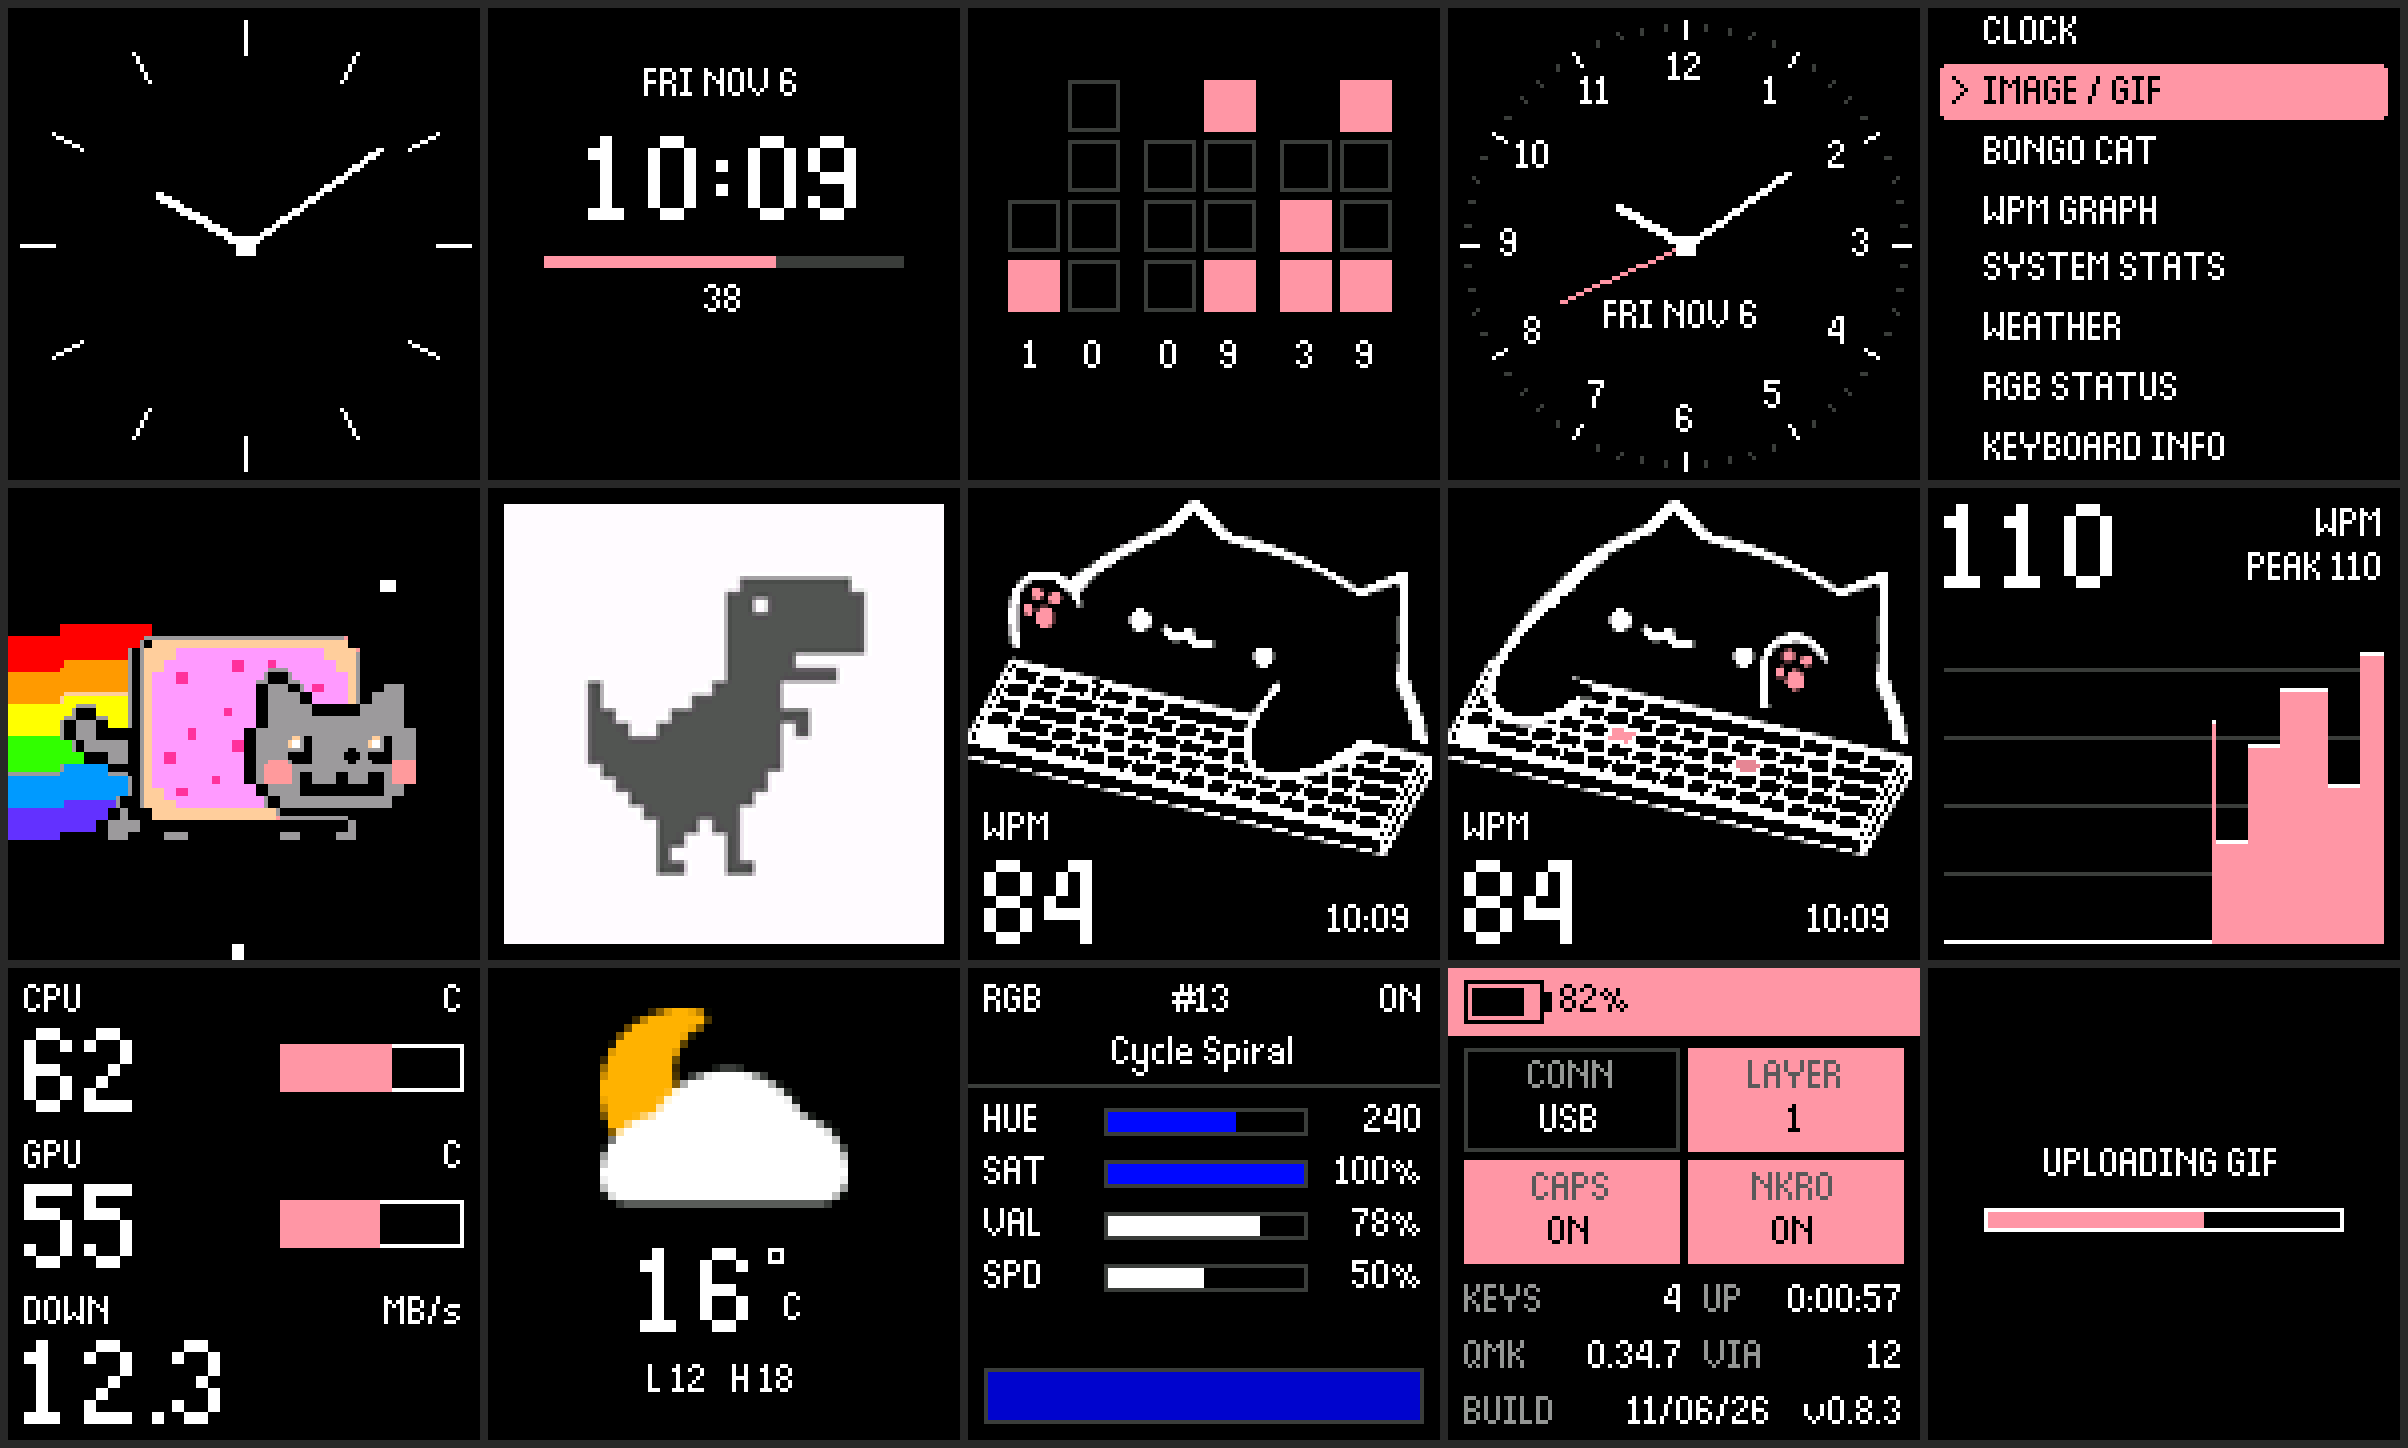
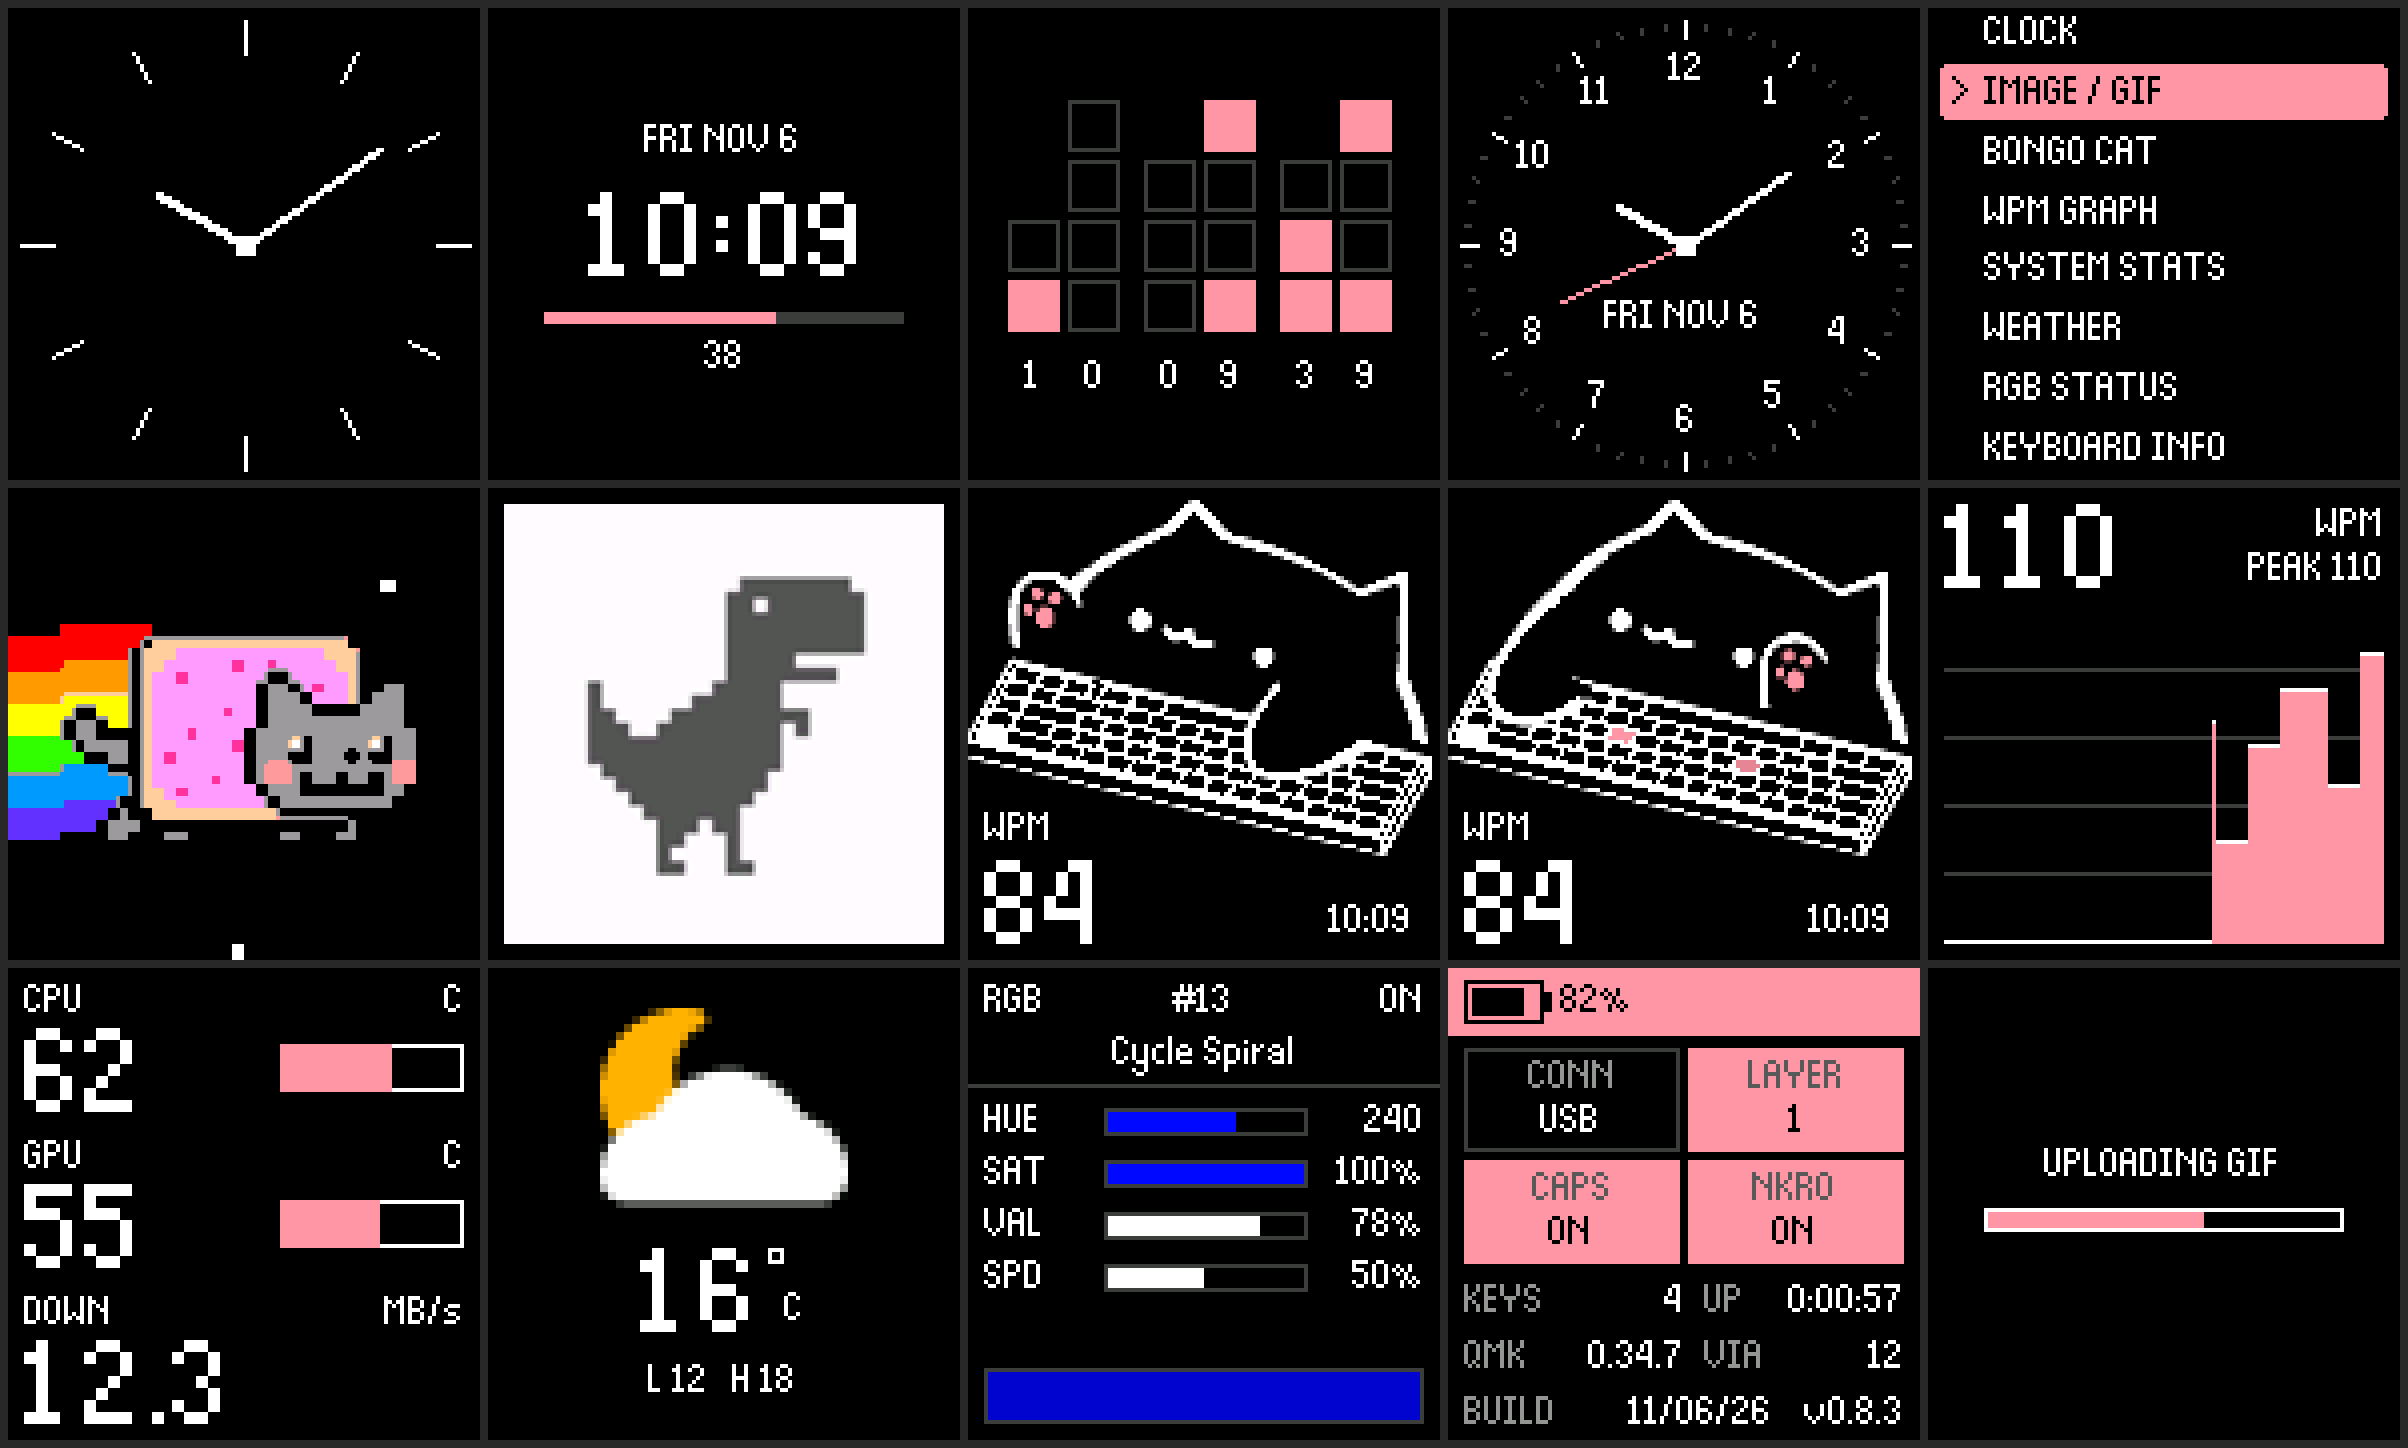
fix: vertically center the digital and binary clock faces

Changed region(s): [[0.4049, 0.0311, 0.5918, 0.2486], [0.218, 0.0311, 0.3738, 0.2486]]

diff --git a/src/ui.c b/src/ui.c
@@ -133,17 +133,17 @@ enum { CLOCK_FACE_DETAILED, CLOCK_FACE_SIMPLE, CLOCK_FACE_DIGITAL, CLOCK_FACE_BI
 #define CLOCK_COLON_WIDTH 10
 #define CLOCK_COLON_SIZE 3
 #define CLOCK_DIGIT_GAP 3
-#define CLOCK_DIGITAL_Y 32
-#define CLOCK_DIGITAL_DATE_Y 14
+#define CLOCK_DIGITAL_Y 46
+#define CLOCK_DIGITAL_DATE_Y 28
 #define CLOCK_BAR_LEFT 14
 #define CLOCK_BAR_RIGHT 103
-#define CLOCK_BAR_Y 62
+#define CLOCK_BAR_Y 76
 #define CLOCK_CELL 13
 #define CLOCK_CELL_GAP 2
 #define CLOCK_PAIR_GAP 4
 #define CLOCK_BINARY_LEFT 10
-#define CLOCK_BINARY_TOP 18
-#define CLOCK_BINARY_LABEL_Y 82
+#define CLOCK_BINARY_TOP 23
+#define CLOCK_BINARY_LABEL_Y 87
 
 #define RIGHT_EDGE 114
 #define STATUS_MARGIN 4
